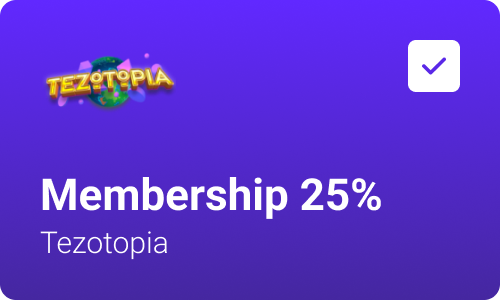
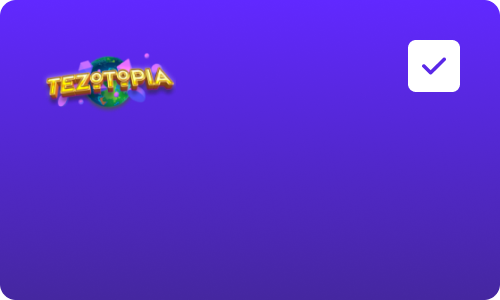
add dynamic percent of membership discount on tezotopia-membership credential card

Changed region(s): [[0.06, 0.57, 0.78, 0.72], [0.06, 0.75, 0.36, 0.87]]

diff --git a/lib/dashboard/home/tab_bar/credentials/widgets/credential_widget/tezotopia_membership_widget.dart b/lib/dashboard/home/tab_bar/credentials/widgets/credential_widget/tezotopia_membership_widget.dart
@@ -57,6 +57,74 @@ class TezotopiaMemberShipRecto extends Recto {
 
   @override
   Widget build(BuildContext context) {
-    return const CredentialImage(image: ImageStrings.tezotopiaMemberShip);
+    final tezotopiaMembershipModel = credentialModel
+        .credentialPreview.credentialSubjectModel as TezotopiaMembershipModel;
+    final l10n = context.l10n;
+
+    return CredentialImage(
+      image: ImageStrings.tezotopiaMemberShip,
+      child: AspectRatio(
+        aspectRatio: Sizes.credentialAspectRatio,
+        child: CustomMultiChildLayout(
+          delegate: TezotopiaMembershipDelegate(position: Offset.zero),
+          children: [
+            LayoutId(
+              id: 'membershipValue',
+              child: FractionallySizedBox(
+                widthFactor: 0.8,
+                heightFactor: 0.20,
+                child: MyText(
+                  '${l10n.membership} '
+                  '${tezotopiaMembershipModel.offers?.benefit?.discount ?? ''}',
+                  style: Theme.of(context).textTheme.title,
+                ),
+              ),
+            ),
+            LayoutId(
+              id: 'tozotopia',
+              child: FractionallySizedBox(
+                widthFactor: 0.4,
+                heightFactor: 0.14,
+                child: MyText(
+                  l10n.tezotopia,
+                  style: Theme.of(context).textTheme.subMessage.copyWith(
+                        color: Theme.of(context).colorScheme.onSurface,
+                      ),
+                ),
+              ),
+            )
+          ],
+        ),
+      ),
+    );
+  }
+}
+
+class TezotopiaMembershipDelegate extends MultiChildLayoutDelegate {
+  TezotopiaMembershipDelegate({this.position = Offset.zero});
+
+  final Offset position;
+
+  @override
+  void performLayout(Size size) {
+    if (hasChild('membershipValue')) {
+      layoutChild('membershipValue', BoxConstraints.loose(size));
+      positionChild(
+        'membershipValue',
+        Offset(size.width * 0.1, size.height * 0.55),
+      );
+    }
+    if (hasChild('tozotopia')) {
+      layoutChild('tozotopia', BoxConstraints.loose(size));
+      positionChild(
+        'tozotopia',
+        Offset(size.width * 0.1, size.height * 0.73),
+      );
+    }
+  }
+
+  @override
+  bool shouldRelayout(covariant TezotopiaMembershipDelegate oldDelegate) {
+    return oldDelegate.position != position;
   }
 }
